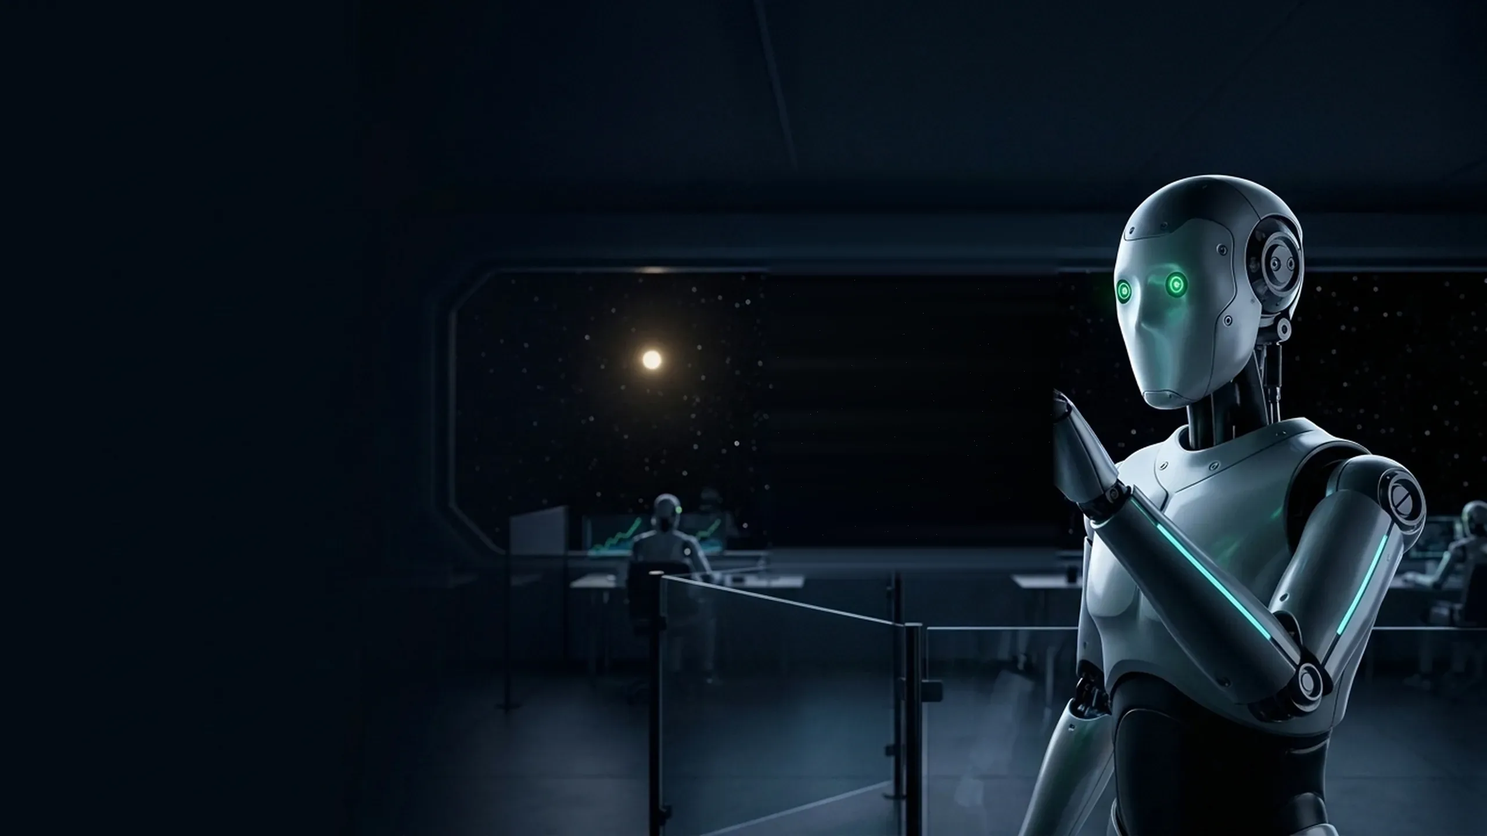
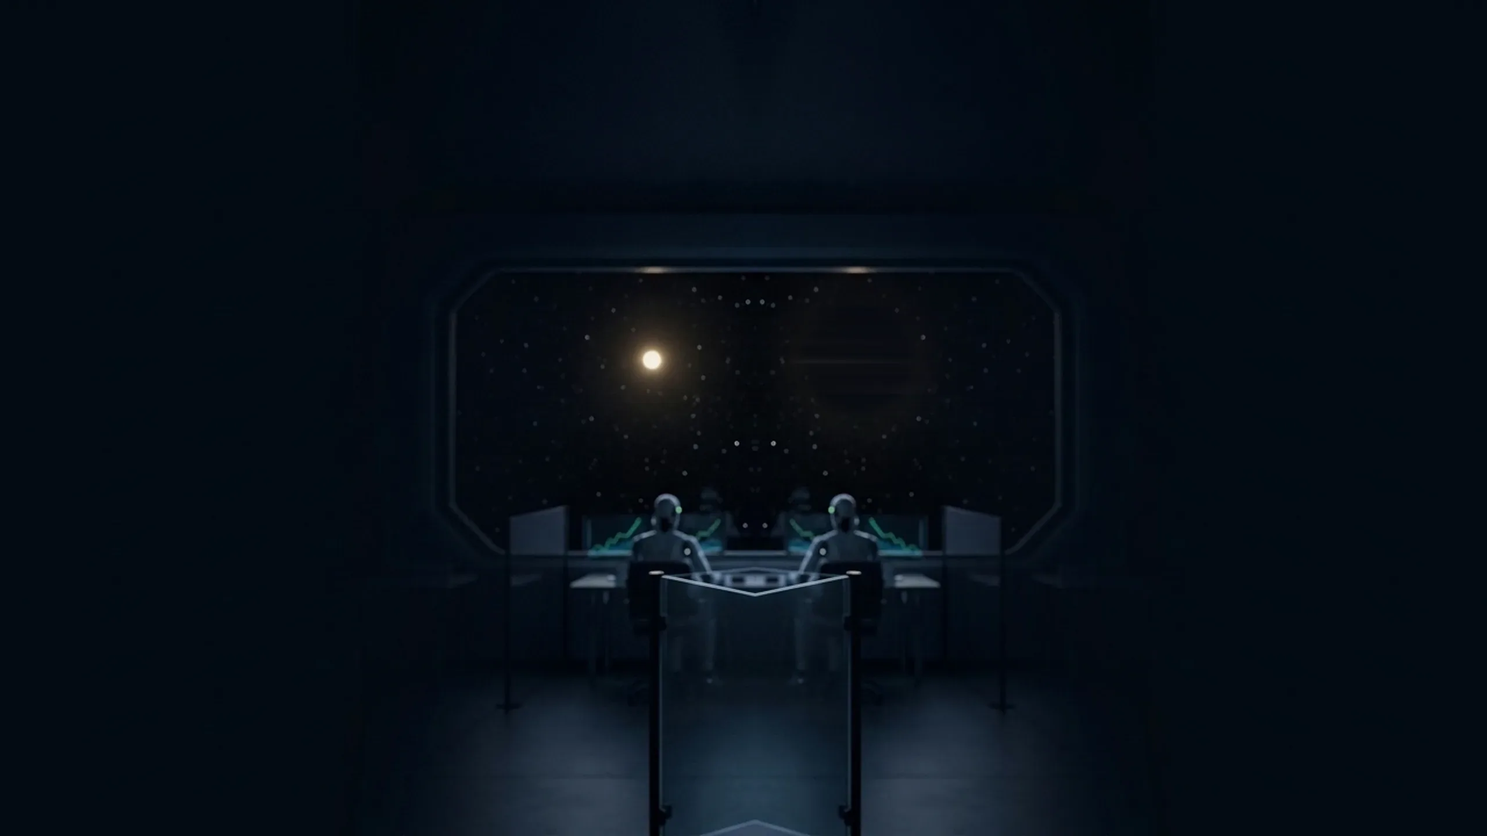
Pitch Cards: everything at the size of their own pages, not of the window. At 2560 x 1267 the card goes 494x650 -> 400x530, the headline 76 -> 58 px (as /agent-casino), Nexus 100% -> 72%; the group is centred and only the room fills the screen (Nexus painted out of it). Not pushed.

Changed region(s): [[0.5, 0.1875, 1.0, 1.0], [0.5625, 0.3125, 0.5938, 0.3438]]

diff --git a/outbox/pitch-cards/pc.css b/outbox/pitch-cards/pc.css
@@ -4,7 +4,7 @@
    green #00ff88, cyan #00cfff, blue #3b82f6, red #ff4444. pc.js sets the scene's scale and the card's box (layout()). */
 html.st-embed, html.st-embed body { overflow: hidden; background: #05080e; }
 .pc { --green: #00ff88; --cyan: #00cfff; --red: #ff4444; --ink: #f4f8fc; --ink2: #b9c8d6; --mute: #7d8fa3; --line: rgba(255, 255, 255, .09);
-  --s: .8; --x0: 0px; --y0: 0px; --cx: 50%; --cy: 120px; --cw: 460px; --ch: 620px; --fs: 56px; --copyl: 80px; --copyw: 600px;
+  --rs: 1; --rx: 0px; --ry: 0px; --s: .72; --x0: 0px; --y0: 0px; --cx: 50%; --cy: 120px; --cw: 460px; --ch: 620px; --fs: 56px; --copyl: 80px; --copyw: 600px; --copyy: 50%;
   position: fixed; inset: 0; z-index: 50; overflow: hidden auto; color: var(--ink); background: #05080e; font: 400 16px/1.4 Inter, system-ui, sans-serif; -webkit-font-smoothing: antialiased; }
 .pc * { box-sizing: border-box; }
 .pc button { font: inherit; color: inherit; margin: 0; min-height: 0; min-width: 0; cursor: pointer; }
@@ -12,8 +12,9 @@ html.st-embed, html.st-embed body { overflow: hidden; background: #05080e; }
 .pc [hidden] { display: none !important; }
 
 /* ------------------------------------------------------------------ the room */
-.pc .pc-room { position: fixed; left: var(--x0); top: var(--y0); width: calc(2560px * var(--s)) !important; height: calc(1440px * var(--s)) !important; max-width: none !important; z-index: 0; pointer-events: none; }
-.pc-nx { position: fixed; left: calc(var(--x0) + 1640px * var(--s)); top: calc(var(--y0) + 280px * var(--s)); width: calc(920px * var(--s)); height: calc(1160px * var(--s)); z-index: 3; pointer-events: none; }
+.pc .pc-room { position: fixed; left: var(--rx); top: var(--ry); width: calc(2560px * var(--rs)) !important; height: calc(1440px * var(--rs)) !important; max-width: none !important; z-index: 0; pointer-events: none; }
+.pc-nx { position: fixed; left: calc(var(--x0) + 1640px * var(--s)); top: calc(var(--y0) + 280px * var(--s)); width: calc(920px * var(--s)); height: calc(1160px * var(--s)); z-index: 3; pointer-events: none;
+  -webkit-mask-image: linear-gradient(180deg, #000 74%, transparent 100%); mask-image: linear-gradient(180deg, #000 74%, transparent 100%); }
 .pc-nx img { display: block; width: 100%; height: 100%; max-width: none; }
 .pc-eye { position: absolute; aspect-ratio: 1; transform: translate(-50%, -50%); border-radius: 50%; mix-blend-mode: screen; animation: pceye 3.6s ease-in-out infinite;
   background: radial-gradient(circle, rgba(170, 255, 215, .95) 0, rgba(0, 255, 136, .5) 24%, rgba(0, 255, 136, 0) 68%); }
@@ -23,33 +24,33 @@ html.st-embed, html.st-embed body { overflow: hidden; background: #05080e; }
 @keyframes pceye { 0%, 100% { opacity: .55; } 50% { opacity: 1; } }
 @keyframes pcflash { 25% { opacity: 1; transform: translate(-50%, -50%) scale(1.8); } }
 .pc-shade { position: fixed; inset: 0; z-index: 1; pointer-events: none; transition: background .3s;
-  background: linear-gradient(90deg, rgba(5, 8, 14, .55) 0%, rgba(5, 8, 14, 0) 42%), linear-gradient(180deg, rgba(5, 8, 14, .6) 0, rgba(5, 8, 14, 0) 110px); }
+  background: linear-gradient(0deg, rgba(5, 8, 14, .92) 0, rgba(5, 8, 14, 0) 36%), linear-gradient(90deg, rgba(5, 8, 14, .55) 0%, rgba(5, 8, 14, 0) 42%), linear-gradient(180deg, rgba(5, 8, 14, .6) 0, rgba(5, 8, 14, 0) 110px); }
 .pc[data-view=deals] .pc-shade, .pc[data-view=board] .pc-shade { background: rgba(5, 8, 14, .97); }
 .pc[data-view=deals] .pc-nx, .pc[data-view=board] .pc-nx, .pc[data-view=deals] .pc-room, .pc[data-view=board] .pc-room { opacity: 0; }
 
 /* ------------------------------------------------------------------ the bar: as their /promo-market's */
-.pc-bar { position: sticky; top: 0; z-index: 6; display: flex; align-items: center; gap: 22px; height: 72px; padding: 0 32px; }
+.pc-bar { position: sticky; top: 0; z-index: 6; display: flex; align-items: center; gap: 20px; height: 64px; padding: 0 28px; }
 .pc-brand { display: inline-flex; align-items: center; gap: 11px; color: var(--ink); text-decoration: none; }
-.pc-brand svg { width: 36px; height: 36px; filter: drop-shadow(0 0 10px rgba(0, 207, 255, .4)); }
-.pc-brand b { display: block; font: 400 19px/1.1 'Archivo Black', sans-serif; letter-spacing: .005em; white-space: nowrap; }
+.pc-brand svg { width: 32px; height: 32px; filter: drop-shadow(0 0 10px rgba(0, 207, 255, .4)); }
+.pc-brand b { display: block; font: 400 17px/1.1 'Archivo Black', sans-serif; letter-spacing: .005em; white-space: nowrap; }
 .pc-tabs { display: flex; gap: 2px; padding: 4px; border-radius: 12px; background: rgba(6, 10, 18, .6); border: 1px solid var(--line); }
-.pc-tabs button { display: inline-flex; align-items: center; gap: 8px; height: 36px; padding: 0 14px; border: 0; border-radius: 9px; background: none; font-size: 14.5px; font-weight: 600; color: var(--mute); white-space: nowrap; }
+.pc-tabs button { display: inline-flex; align-items: center; gap: 8px; height: 32px; padding: 0 13px; border: 0; border-radius: 9px; background: none; font-size: 13.5px; font-weight: 600; color: var(--mute); white-space: nowrap; }
 .pc-tabs button:hover { color: var(--ink); }
 .pc-tabs button.on { color: var(--ink); background: rgba(0, 207, 255, .12); box-shadow: inset 0 0 0 1px rgba(0, 207, 255, .22); }
 .pc-tabs i { font: 800 11px/18px 'JetBrains Mono', monospace; min-width: 18px; height: 18px; padding: 0 5px; text-align: center; border-radius: 9px; color: #04140c; background: var(--green); box-shadow: 0 0 10px rgba(0, 255, 136, .6); }
 .pc-tabs i:empty { display: none; }
 .pc .pc-bal { margin-left: auto; }
-.pc-bal { display: inline-flex; align-items: center; gap: 12px; height: 44px; padding: 0 5px 0 16px; border: 1px solid var(--line); border-radius: 12px; background: rgba(6, 10, 18, .6); }
+.pc-bal { display: inline-flex; align-items: center; gap: 10px; height: 40px; padding: 0 4px 0 14px; border: 1px solid var(--line); border-radius: 12px; background: rgba(6, 10, 18, .6); }
 .pc-bal:hover { border-color: rgba(0, 255, 136, .5); }
-.pc-bal b { font: 400 18px 'Archivo Black', sans-serif; font-variant-numeric: tabular-nums; }
-.pc-bal i { font: 500 20px/30px Inter, sans-serif; width: 32px; height: 32px; text-align: center; border-radius: 8px; color: var(--green); box-shadow: inset 0 0 0 1.5px rgba(0, 255, 136, .6); }
+.pc-bal b { font: 400 16px 'Archivo Black', sans-serif; font-variant-numeric: tabular-nums; }
+.pc-bal i { font: 500 18px/28px Inter, sans-serif; width: 30px; height: 30px; text-align: center; border-radius: 8px; color: var(--green); box-shadow: inset 0 0 0 1.5px rgba(0, 255, 136, .6); }
 .pc-bal.tick b { animation: pctick .7s ease; }
 @keyframes pctick { 35% { color: var(--green); } }
 
 /* ------------------------------------------------------------------ the words beside the card */
 .pc-view { display: none; }
 .pc[data-view=deck] [data-v=deck], .pc[data-view=deals] [data-v=deals], .pc[data-view=board] [data-v=board] { display: block; }
-.pc-copy { position: fixed; z-index: 2; left: var(--copyl); top: 50%; width: var(--copyw); transform: translateY(-58%); pointer-events: none; }
+.pc-copy { position: fixed; z-index: 2; left: var(--copyl); top: var(--copyy); width: var(--copyw); transform: translateY(-50%); pointer-events: none; }
 .pc-copy h1 { margin: 0; font: 400 var(--fs)/1.05 'Archivo Black', sans-serif; letter-spacing: -.005em; color: #fff; }
 .pc-copy h1 span { color: var(--green); }
 .pc.done .pc-copy { display: none; }
@@ -57,7 +58,7 @@ html.st-embed, html.st-embed body { overflow: hidden; background: #05080e; }
 /* ------------------------------------------------------------------ the card: a pane of glass, as the render's */
 .pc-deck { position: fixed; z-index: 2; left: var(--cx); top: var(--cy); width: var(--cw); height: var(--ch); }
 .pc-card { --tx: 0px; --ty: 0px; --r: 0deg; --sc: 1; position: absolute; inset: 0; display: flex; flex-direction: column; padding: calc(var(--cw) * .05) calc(var(--cw) * .06) calc(var(--cw) * .055);
-  border-radius: 26px; overflow: hidden; touch-action: none; user-select: none; -webkit-user-select: none; cursor: grab;
+  border-radius: 22px; overflow: hidden; touch-action: none; user-select: none; -webkit-user-select: none; cursor: grab;
   transform: translate(var(--tx), var(--ty)) rotate(var(--r)) scale(var(--sc));
   background: linear-gradient(112deg, rgba(205, 240, 255, .13) 0%, rgba(205, 240, 255, .03) 20%, rgba(205, 240, 255, 0) 38%), rgba(5, 11, 19, .96);
   backdrop-filter: blur(10px) saturate(1.35); -webkit-backdrop-filter: blur(10px) saturate(1.35);
@@ -87,7 +88,7 @@ html.st-embed, html.st-embed body { overflow: hidden; background: #05080e; }
 .pc-card.turn { transition: transform .17s ease-in; transform: perspective(1500px) rotateY(82deg); }
 /* a new pitch comes up from under his finger: a line of light wipes across the pane */
 .pc-card.born { animation: pcborn .62s cubic-bezier(.3, .7, .2, 1) both; }
-@keyframes pcborn { from { clip-path: inset(0 0 0 100% round 26px); } to { clip-path: inset(0 0 0 0 round 26px); } }
+@keyframes pcborn { from { clip-path: inset(0 0 0 100% round 22px); } to { clip-path: inset(0 0 0 0 round 22px); } }
 .pc-scan { position: absolute; top: -2%; bottom: -2%; width: 3px; right: 0; pointer-events: none; opacity: 0; background: #d8fff0; box-shadow: 0 0 22px 7px rgba(0, 255, 136, .75), 0 0 70px 18px rgba(0, 207, 255, .4); }
 .pc-card.born .pc-scan { animation: pcscan .62s cubic-bezier(.3, .7, .2, 1) both; }
 @keyframes pcscan { 0% { right: 0; opacity: 1; } 92% { opacity: 1; } 100% { right: 100%; opacity: 0; } }
@@ -104,8 +105,8 @@ html.st-embed, html.st-embed body { overflow: hidden; background: #05080e; }
 .pc-chart svg { position: absolute; inset: 0; width: 100%; height: 100%; overflow: visible; }
 .pc-chart .peer { fill: none; stroke: #5ed4f7; stroke-width: 1; opacity: .3; stroke-linejoin: round; }
 .pc-chart .ln { fill: none; stroke: var(--green); stroke-linecap: round; stroke-linejoin: round; }
-.pc-chart .ln.glow { stroke-width: 9; opacity: .6; filter: blur(6px); }
-.pc-chart .ln.core { stroke-width: 3.4; }
+.pc-chart .ln.glow { stroke-width: 7; opacity: .6; filter: blur(5px); }
+.pc-chart .ln.core { stroke-width: 2.8; }
 .pc-card.top .pc-chart .ln { stroke-dasharray: 1; stroke-dashoffset: 1; animation: pcdraw 1.25s cubic-bezier(.45, 0, .2, 1) .3s forwards; }
 .pc-card.top .pc-chart .peer { opacity: 0; animation: pcpeer .9s ease .35s forwards; }
 .pc-card.top .pc-chart .tipd { opacity: 0; animation: pcfade .3s ease 1.5s forwards; }
@@ -128,11 +129,11 @@ html.st-embed, html.st-embed body { overflow: hidden; background: #05080e; }
 .pc-tint.out em { color: var(--red); text-shadow: 0 0 30px rgba(255, 68, 68, .7); }
 
 /* the two choices */
-.pc-acts { position: fixed; z-index: 4; left: var(--cx); top: calc(var(--cy) + var(--ch) + 16px); width: var(--cw); display: grid; grid-template-columns: 1fr 1.5fr; gap: 12px; }
+.pc-acts { position: fixed; z-index: 4; left: var(--cx); top: calc(var(--cy) + var(--ch) + 12px); width: var(--cw); display: grid; grid-template-columns: 1fr 1.5fr; gap: 10px; }
 .pc-acts.off { display: none; }
-.pc-acts button { display: inline-flex; align-items: center; justify-content: center; gap: 10px; height: 62px; border-radius: 14px; font: 400 19px 'Archivo Black', sans-serif; letter-spacing: .03em; text-transform: uppercase; transition: transform .12s, box-shadow .2s, background .2s, border-color .2s; }
+.pc-acts button { display: inline-flex; align-items: center; justify-content: center; gap: 9px; height: 54px; border-radius: 13px; font: 400 15.5px 'Archivo Black', sans-serif; letter-spacing: .03em; text-transform: uppercase; transition: transform .12s, box-shadow .2s, background .2s, border-color .2s; }
 .pc-acts button:active { transform: scale(.975); }
-.pc-acts svg { width: 21px; height: 21px; }
+.pc-acts svg { width: 18px; height: 18px; }
 .pc-pass { border: 1.5px solid rgba(255, 255, 255, .22); background: rgba(6, 10, 18, .85); color: #fff !important; }
 .pc-pass:hover { border-color: var(--red); color: var(--red) !important; }
 .pc-go { border: 0; color: #04140c !important; background: var(--green); box-shadow: 0 0 34px rgba(0, 255, 136, .45); }
@@ -143,7 +144,7 @@ html.st-embed, html.st-embed body { overflow: hidden; background: #05080e; }
 .pc-amt { display: flex; align-items: center; height: calc(var(--cw) * .2); margin-top: calc(var(--cw) * .032); font: 400 calc(var(--cw) * .2)/1 'Archivo Black', sans-serif; letter-spacing: -.012em; color: var(--green); filter: drop-shadow(0 0 16px rgba(0, 255, 136, .4)); cursor: text; }
 .pc .pc-amt input { width: 2em; min-width: .74em; max-width: 80%; height: 100% !important; min-height: 0 !important; margin: 0; padding: 0 !important; border: 0 !important; outline: 0; background: none !important; box-shadow: none !important; border-radius: 0; font: inherit !important; font-size: inherit !important; line-height: 1 !important; letter-spacing: inherit; text-align: left !important; color: inherit; text-shadow: none; caret-color: #fff; font-variant-numeric: tabular-nums; }
 .pc-chips { display: grid; grid-template-columns: repeat(4, 1fr); gap: 8px; margin-top: calc(var(--cw) * .03); }
-.pc-chips button { height: 52px; border-radius: 12px; border: 1.5px solid rgba(255, 255, 255, .18); background: rgba(255, 255, 255, .04); font: 400 17px 'Archivo Black', sans-serif; color: var(--ink2); }
+.pc-chips button { height: 44px; border-radius: 11px; border: 1.5px solid rgba(255, 255, 255, .18); background: rgba(255, 255, 255, .04); font: 400 15px 'Archivo Black', sans-serif; color: var(--ink2); }
 .pc-chips button:hover { color: #fff; border-color: rgba(255, 255, 255, .36); }
 .pc-chips button.on { color: #04140c; border-color: var(--green); background: var(--green); }
 
@@ -156,26 +157,26 @@ html.st-embed, html.st-embed body { overflow: hidden; background: #05080e; }
 .pc-empty button:hover { border-color: var(--cyan); color: var(--cyan); }
 
 /* the notification Cymetica sends */
-.pc-push { position: fixed; z-index: 90; top: 80px; right: 24px; display: flex; align-items: center; gap: 13px; width: 390px; max-width: calc(100vw - 24px); padding: 12px 18px 12px 12px; border-radius: 16px; text-decoration: none; color: var(--ink);
+.pc-push { position: fixed; z-index: 90; top: 72px; right: 24px; display: flex; align-items: center; gap: 12px; width: 340px; max-width: calc(100vw - 24px); padding: 10px 16px 10px 10px; border-radius: 14px; text-decoration: none; color: var(--ink);
   background: rgba(8, 14, 23, .98); backdrop-filter: blur(16px) saturate(1.4); -webkit-backdrop-filter: blur(16px) saturate(1.4); border: 1px solid rgba(0, 255, 136, .45);
   box-shadow: 0 18px 50px rgba(0, 0, 0, .6), 0 0 34px rgba(0, 255, 136, .16); animation: pcdrop .5s cubic-bezier(.2, .9, .3, 1.15); }
 .pc-push.out { animation: pclift .35s ease forwards; }
 @keyframes pcdrop { from { transform: translateY(-26px); opacity: 0; } }
 @keyframes pclift { to { transform: translateY(-26px); opacity: 0; } }
-.pc-push img { flex: none; width: 52px; height: 52px; border-radius: 12px; object-fit: cover; }
+.pc-push img { flex: none; width: 44px; height: 44px; border-radius: 10px; object-fit: cover; }
 .pc-push-t { min-width: 0; display: flex; flex-direction: column; }
-.pc-push-t em { font: 500 12px 'JetBrains Mono', monospace; font-style: normal; color: var(--mute); }
-.pc-push-t b { font-size: 16px; font-weight: 700; letter-spacing: -.01em; }
-.pc-push-t span { font-size: 14px; color: var(--ink2); white-space: nowrap; overflow: hidden; text-overflow: ellipsis; }
+.pc-push-t em { font: 500 11px 'JetBrains Mono', monospace; font-style: normal; color: var(--mute); }
+.pc-push-t b { font-size: 14.5px; font-weight: 700; letter-spacing: -.01em; }
+.pc-push-t span { font-size: 13px; color: var(--ink2); white-space: nowrap; overflow: hidden; text-overflow: ellipsis; }
 .pc-toast { position: fixed; z-index: 95; left: 50%; bottom: 26px; transform: translateX(-50%); max-width: calc(100vw - 32px); padding: 13px 20px; border-radius: 12px; font-size: 15px; font-weight: 600; white-space: nowrap;
   color: #04140c; background: var(--green); box-shadow: 0 10px 40px rgba(0, 255, 136, .35); animation: pcfade .25s ease both; opacity: 0; }
 
 /* ------------------------------------------------------------------ My deals and the Pitchboard */
 .pc-page { position: relative; z-index: 2; width: 100%; max-width: 860px; margin: 0 auto; padding: 22px 24px 60px; }
-.pc-h2 { margin: 0 0 28px; font: 400 clamp(30px, 3.4vw, 46px)/1.08 'Archivo Black', sans-serif; color: #fff; }
+.pc-h2 { margin: 0 0 24px; font: 400 clamp(28px, 2.6vw, 38px)/1.08 'Archivo Black', sans-serif; color: #fff; }
 .pc-stats { display: flex; flex-wrap: wrap; gap: 16px 56px; padding: 0 0 28px; }
 .pc-stat span { display: block; font: 700 12px 'JetBrains Mono', monospace; letter-spacing: .12em; text-transform: uppercase; color: var(--mute); }
-.pc-stat b { display: block; margin-top: 7px; font: 400 44px/1 'Archivo Black', sans-serif; font-variant-numeric: tabular-nums; }
+.pc-stat b { display: block; margin-top: 7px; font: 400 36px/1 'Archivo Black', sans-serif; font-variant-numeric: tabular-nums; }
 .pc-stat b.pos { color: var(--green); }
 .pc-stat b.neg { color: var(--red); }
 .pc-stat b.zero { color: var(--ink2); }
@@ -209,6 +210,7 @@ html.st-embed, html.st-embed body { overflow: hidden; background: #05080e; }
 
 /* ------------------------------------------------------------------ a phone: his whole face over the card */
 .pc.narrow .pc-nx { z-index: 1; }
+.pc.narrow .pc-chips button { height: 50px; font-size: 16px; }
 .pc.narrow .pc-shade { background: linear-gradient(180deg, rgba(5, 8, 14, .35) 0, rgba(5, 8, 14, 0) 70px); }
 .pc.narrow[data-view=deals] .pc-shade, .pc.narrow[data-view=board] .pc-shade { background: rgba(5, 8, 14, .97); }
 .pc.narrow .pc-copy { display: none; }

diff --git a/outbox/pitch-cards/pc.js b/outbox/pitch-cards/pc.js
@@ -21,18 +21,24 @@
   /* ------------------------------------------------------------------ where things stand: the render's own pixels (2560 x 1440) */
   var FINGER = { x: 1664, y: 590 };
   function layout() {
-    var W = innerWidth, H = innerHeight, narrow = W < 1100, s, x0, y0, cw, ch, cx, cy;
+    var W = innerWidth, H = innerHeight, narrow = W < 1100, s, x0, y0, cw, ch, cx, cy, rs, rx, ry;
     pc.classList.toggle('narrow', narrow);
     if (!narrow) {
-      s = Math.max(W / 2560, H / 1440); y0 = Math.min(0, (H - 1440 * s) * .25);
-      x0 = Math.min(0, W - 2560 * s + 143 * s);               // the far arm may leave the screen, for room on the left
-      ch = Math.max(470, Math.min(H - 186, 650)); cw = Math.max(380, Math.min(ch * .76, 500));
-      cx = (FINGER.x + 88) * s + x0 - cw;                     // his finger and first knuckles lie on the card's right edge
-      cy = Math.max(78, Math.min((FINGER.y + 90) * s + y0 - ch * .47, H - ch - 96));
-      var cl = Math.max(40, W * .055), cww = cx - cl - 36;
-      pc.style.setProperty('--copyl', cl + 'px'); pc.style.setProperty('--copyw', cww + 'px');
-      pc.style.setProperty('--fs', Math.min(76, cww / 12.4).toFixed(1) + 'px');
-      $('copy').style.display = cww < 300 ? 'none' : '';
+      /* The sizes do not follow the window, as their own pages' do not: at 2560 x 1267 /agent-casino has a 58px headline and
+         a 1208px column. Only the room fills the screen. */
+      rs = Math.max(W / 2560, H / 1440); rx = (W - 2560 * rs) / 2; ry = (H - 1440 * rs) * .25;
+      s = Math.max(.5, Math.min(.72, .5 + (H - 720) * .000402));
+      ch = Math.max(430, Math.min(H - 64 - 66 - 32, 530)); cw = Math.round(ch * .755);
+      var gap = 64, reach = (2470 - FINGER.x - 88) * s;        // how far he stands to the right of the card's edge
+      var fs = Math.min(58, (W - 80 - gap - cw - reach + 150 * s) / 10.45), copy = fs >= 34;   // his far arm may leave the screen before the words shrink
+      var hw = copy ? fs * 10.45 + gap : 0, stack = ch + 66;
+      cx = Math.max(40, (W - hw - cw - reach) / 2) + hw;
+      cy = Math.max(72, H * .52 - stack / 2);
+      x0 = cx + cw - (FINGER.x + 88) * s;                      // his finger and first knuckles lie on the card's right edge
+      y0 = cy + ch * .47 - (FINGER.y + 90) * s;
+      pc.style.setProperty('--copyl', (cx - hw) + 'px'); pc.style.setProperty('--copyw', (hw - gap + 4) + 'px'); pc.style.setProperty('--copyy', (cy + stack / 2) + 'px');
+      pc.style.setProperty('--fs', fs.toFixed(1) + 'px');
+      $('copy').style.display = copy ? '' : 'none';
     } else {
       cw = Math.min(W - 24, 470); cx = (W - cw) / 2;
       s = Math.max(.34, Math.min(.56, cw / 960));
@@ -40,8 +46,9 @@
       var chin = 12 + 405 * s;                                // his whole face above the card when the screen has the room
       cy = Math.max(100, Math.min(chin - 6, H - 132 - 430)); ch = H - cy - 54 - 16 - 50 - 12;   // then the card, buttons, tabs
       y0 = cy >= chin - 6 ? cy + 6 - 705 * s : cy - 24 - 490 * s;   // his chin on the card's top edge; on a short screen, his eyes just over it
+      rs = s; rx = x0; ry = y0;
     }
-    var v = { '--s': s.toFixed(4), '--x0': x0.toFixed(1) + 'px', '--y0': y0.toFixed(1) + 'px', '--cx': Math.round(cx) + 'px', '--cy': Math.round(cy) + 'px', '--cw': Math.round(cw) + 'px', '--ch': Math.round(ch) + 'px' };   // whole pixels keep the type sharp
+    var v = { '--rs': rs.toFixed(4), '--rx': rx.toFixed(1) + 'px', '--ry': ry.toFixed(1) + 'px', '--s': s.toFixed(4), '--x0': x0.toFixed(1) + 'px', '--y0': y0.toFixed(1) + 'px', '--cx': Math.round(cx) + 'px', '--cy': Math.round(cy) + 'px', '--cw': Math.round(cw) + 'px', '--ch': Math.round(ch) + 'px' };   // whole pixels keep the type sharp
     Object.keys(v).forEach(function (k) { pc.style.setProperty(k, v[k]); });
   }
 
@@ -125,7 +132,7 @@
     box.innerHTML = '<svg viewBox="0 0 ' + W + ' ' + H + '" aria-hidden="true">' +
       field.map(function (q) { return '<path class="peer" d="' + path(q) + '"/>'; }).join('') +
       '<path class="ln glow" pathLength="1" d="' + d + '"/><path class="ln core" pathLength="1" d="' + d + '"/>' +
-      '<g class="tipd"><circle cx="' + tx.toFixed(1) + '" cy="' + ty.toFixed(1) + '" r="11" fill="#00ff88" opacity=".22"/><circle cx="' + tx.toFixed(1) + '" cy="' + ty.toFixed(1) + '" r="4.5" fill="#eafff4"/></g></svg>' +
+      '<g class="tipd"><circle cx="' + tx.toFixed(1) + '" cy="' + ty.toFixed(1) + '" r="9" fill="#00ff88" opacity=".22"/><circle cx="' + tx.toFixed(1) + '" cy="' + ty.toFixed(1) + '" r="3.8" fill="#eafff4"/></g></svg>' +
       '<span class="pc-cmp">' + esc(pitch(p).cmp) + '</span>';
   }
 

diff --git a/outbox/pitch-cards/build_scene.py b/outbox/pitch-cards/build_scene.py
@@ -2,7 +2,7 @@
 
     python outbox/pitch-cards/build_scene.py
 
-scene.webp   the room with the baked glass pane and its chart painted out, so a live card can stand in its place
+scene.webp   the room alone: the baked glass pane painted out, Nexus gone, so it can fill any screen behind him
 nexus.webp   Nexus cut out by hand-traced outline (2560 x 1440 coordinates below), to stand in FRONT of the card: the card
              sits under his finger and slides behind him when it is swiped to him. Left edge x=NX, top y=NY in the render.
 """
@@ -30,9 +30,13 @@ OUTLINE = [
     (1787, 815), (1800, 823), (1820, 840), (1840, 860), (1853, 865), (1858, 873), (1867, 887), (1867, 925), (1865, 935),
     (1862, 1050), (1855, 1120), (1852, 1160), (1855, 1180), (1842, 1200), (1835, 1225), (1805, 1280), (1780, 1340),
     (1765, 1400), (1760, 1440),
-    (2470, 1440), (2470, 900), (2455, 870), (2406, 815), (2300, 755), (2245, 719), (2205, 720), (2205, 600), (2222, 570),
+    (2305, 1440), (2302, 1420), (2285, 1360), (2278, 1320), (2280, 1285), (2298, 1250), (2302, 1210), (2310, 1170),
+    (2328, 1130), (2352, 1090), (2378, 1045), (2400, 1000), (2416, 955), (2420, 938), (2445, 915), (2456, 890), (2450, 850),
+    (2430, 815), (2400, 795), (2360, 783), (2330, 775), (2300, 757), (2245, 719), (2205, 720), (2205, 600), (2222, 570),
     (2227, 540), (2245, 460), (2242, 415), (2220, 360), (2185, 325), (2140, 310),
 ]
+SEAM = 1300                          # right of this column the room is its own left side mirrored: Nexus stood there
+MOON = (1122, 619, 125)              # x, y, radius with its halo
 
 
 def plate(a: np.ndarray) -> np.ndarray:
@@ -64,6 +68,23 @@ def plate(a: np.ndarray) -> np.ndarray:
     return np.clip(out, 0, 255).astype(np.uint8)
 
 
+def room(a: np.ndarray) -> np.ndarray:
+    """The room with nobody in it, so it can fill any screen while Nexus and the card keep their own size. Everything right
+    of SEAM is the left side mirrored, moon taken out of the copy: an octagonal window that closes, and a second desk."""
+    p = plate(a).astype(np.float32)
+    clean = p.copy()
+    mx, my, r = MOON
+    x0, x1, y0, y1 = mx - r, mx + r, my - r, my + r
+    ramp = np.linspace(0, 1, x1 - x0)[:, None]
+    for y in range(y0, y1):
+        clean[y, x0:x1] = clean[y, x0 - 6:x0].mean(axis=0) * (1 - ramp) + clean[y, x1:x1 + 6].mean(axis=0) * ramp
+    yy, xx = np.mgrid[y0:y1, x0:x1]
+    m = np.clip((r - np.hypot(xx - mx, yy - my)) / 40, 0, 1)[..., None]
+    clean[y0:y1, x0:x1] = p[y0:y1, x0:x1] * (1 - m) + clean[y0:y1, x0:x1] * m
+    p[:, SEAM:] = clean[:, SEAM - 1:SEAM - 1 - (2560 - SEAM):-1]
+    return np.clip(p, 0, 255).astype(np.uint8)
+
+
 def nexus(a: np.ndarray) -> Image.Image:
     """Nexus alone: the outline feathered a little, and the baked pane's rim taken off his hand."""
     b = a.astype(np.float32).copy()
@@ -81,7 +102,7 @@ def nexus(a: np.ndarray) -> Image.Image:
 
 if __name__ == "__main__":
     src = np.asarray(Image.open(SRC).convert("RGB"))
-    Image.fromarray(plate(src)).save(HERE / "scene.webp", quality=82, method=6)
+    Image.fromarray(room(src)).save(HERE / "scene.webp", quality=82, method=6)
     nexus(src).save(HERE / "nexus.webp", quality=88, method=6)
     Image.fromarray(src[310:690, 1880:2260]).resize((192, 192), Image.LANCZOS).save(HERE / "nexus-face.webp", quality=86, method=6)
     for f in ("scene.webp", "nexus.webp", "nexus-face.webp"):
